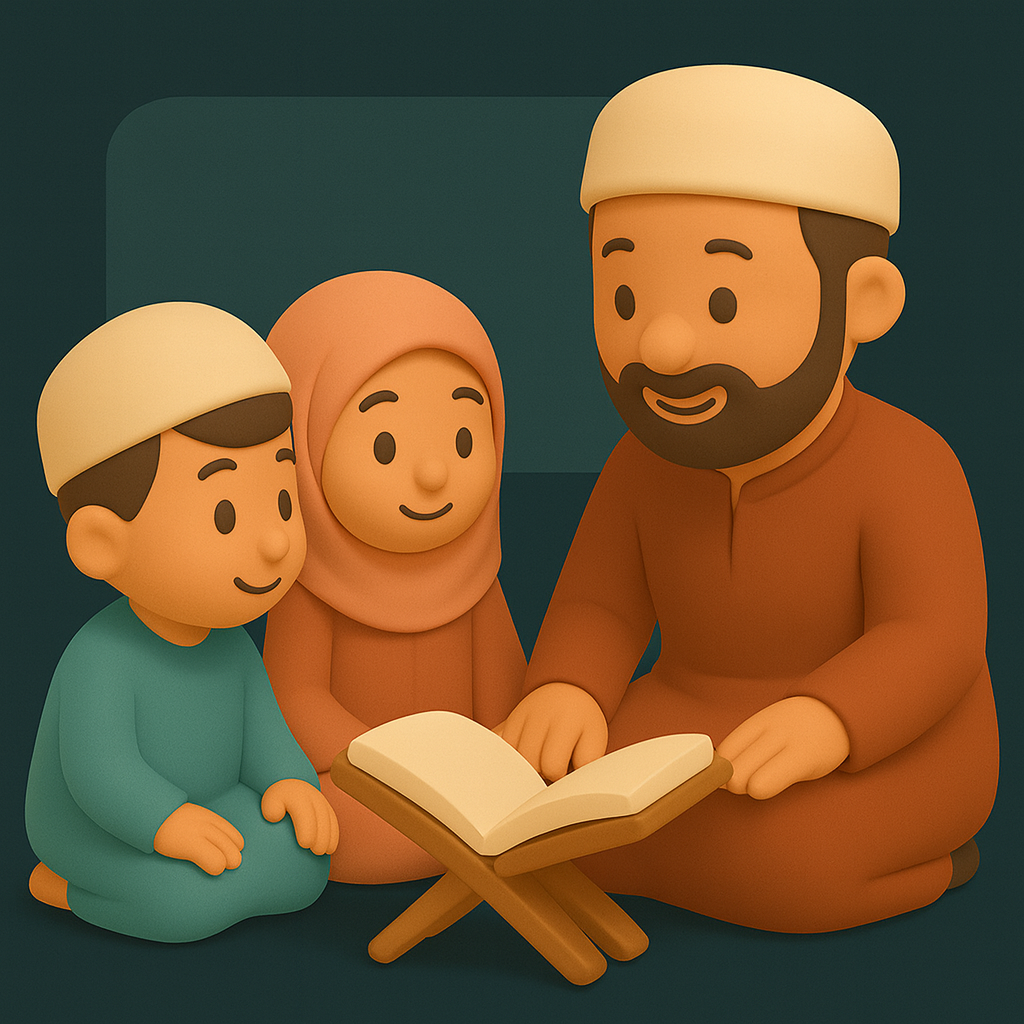
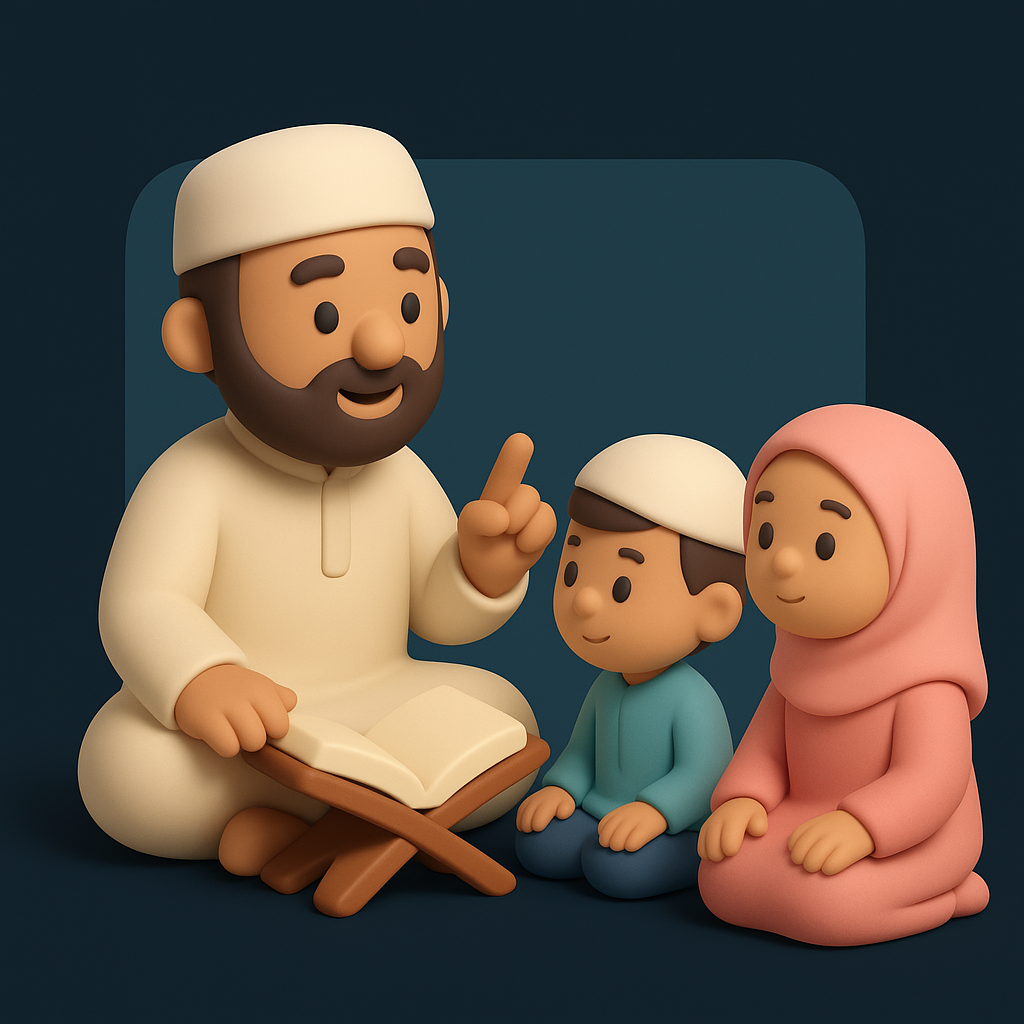
updated the images and made it theme specific

diff --git a/apps/mobile/app/(tabs)/index.tsx b/apps/mobile/app/(tabs)/index.tsx
@@ -1,7 +1,7 @@
 import { ThemedText } from '@/components/themed-text';
 import { ThemedView } from '@/components/themed-view';
-import { useThemeColor } from '@/hooks/use-theme-color';
 import { useColorScheme } from '@/hooks/use-color-scheme';
+import { useThemeColor } from '@/hooks/use-theme-color';
 import { useAuth } from '@/lib/auth/context';
 import { Ionicons } from '@expo/vector-icons';
 import { useRef } from 'react';
@@ -46,7 +46,7 @@ export default function HomeScreen() {
 
   // Dark mode support
   const isDark = colorScheme === 'dark';
-  const headerBackgroundColor = isDark ? '#1D3130' : '#FED7AE';
+  const headerBackgroundColor = isDark ? '#13212B' : '#FED7AE';
   const homePageImage = isDark
     ? require('@/assets/images/home-page-dark.png')
     : require('@/assets/images/home-page.png');
@@ -95,14 +95,14 @@ export default function HomeScreen() {
   // Text horizontal position - moves right as we scroll
   const greetingTranslateX = scrollY.interpolate({
     inputRange: [0, HEADER_SCROLL_DISTANCE],
-    outputRange: [0, 30], // Move right to appear next to image
+    outputRange: [0, 10], // Move right to appear next to image
     extrapolate: 'clamp',
   });
 
   // Text vertical position
   const greetingTranslateY = scrollY.interpolate({
     inputRange: [0, HEADER_SCROLL_DISTANCE],
-    outputRange: [140, 0], // Start below image, move up to center
+    outputRange: [140, 10], // Start below image, move up to center
     extrapolate: 'clamp',
   });
 
@@ -175,10 +175,7 @@ export default function HomeScreen() {
               }
             ]}
           >
-            Assalamu Alykom,{' '}
-            <ThemedText style={styles.userName}>
-              {user?.name || 'User Name'}
-            </ThemedText>
+            Assalamu Alykom,{' '}{user?.name || 'User Name'}
           </Animated.Text>
         </Animated.View>
       </Animated.View>
@@ -201,7 +198,7 @@ export default function HomeScreen() {
           <View style={styles.sectionHeader}>
             <View style={styles.sectionTitleRow}>
               <Ionicons name="calendar" size={24} color="#F59E0B" />
-              <ThemedText style={styles.sectionTitle}>Today's Schedule</ThemedText>
+              <ThemedText style={styles.sectionTitle}>Today&apos;s Schedule</ThemedText>
             </View>
             <Ionicons name="chevron-forward" size={24} color="#9CA3AF" />
           </View>

diff --git a/apps/mobile/constants/theme.ts b/apps/mobile/constants/theme.ts
@@ -23,7 +23,7 @@ export const Colors = {
   },
   dark: {
     text: '#ECEDEE',
-    background: '#000000', // Pure black for better OLED support
+    background: '#091014', // Pure black for better OLED support
     tint: tintColorDark,
     icon: '#9BA1A6',
     tabIconDefault: '#9BA1A6',
